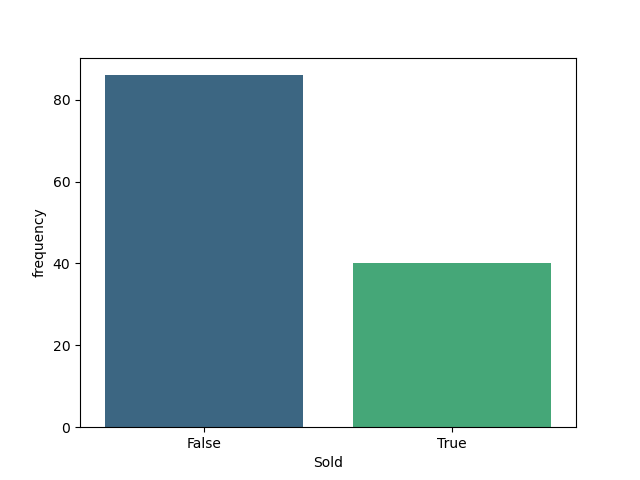
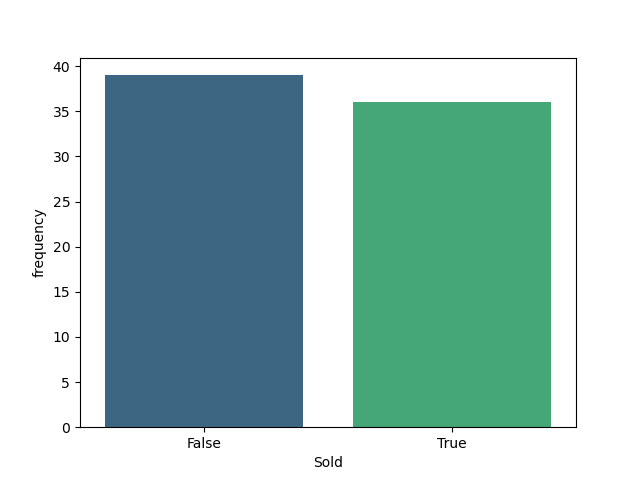
Fixed text parsing

diff --git a/KeyboardMarketAnalyser.py b/KeyboardMarketAnalyser.py
@@ -3,10 +3,7 @@
 # Made Public: 26th June 2020
 # 
 # To do (in order of priority):
-# 1) Improve text parsing in methods PriceCheck and ParsePostBody
-# 2) Improve price estimation with CurrencyConverter module:
-# https://pypi.org/project/CurrencyConverter/
-# 3) Improve options for fitting - extract information from asking price histogram
+# 1) Improve options for fitting - extract information from asking price histogram
 
 import praw, argparse, re, sys, datetime, os, logging, json
 from parse import *
@@ -14,6 +11,7 @@ import pandas as pd
 import matplotlib
 from matplotlib import pyplot as plt
 from matplotlib import dates as mpl_dates
+from currency_converter import CurrencyConverter
 import seaborn as sns
 logging.basicConfig(level=logging.INFO)
 
@@ -387,103 +385,90 @@ def ParseTitle(Submission):
 		HaveObjects = HaveObjects.replace("+","")
 	return Location, HaveObjects, WantObjects
 
+def CheckIfSold(Submission, PostBody):
+	if Submission.link_flair_text:
+		# If it has a post flair, it might already say its sold
+		if "Sold" in Submission.link_flair_text:
+			logging.debug("Submission was sold, assuming it was asking price")
+			return True
+	# Search for Sold in body
+	logging.debug("Flair has not been updated, checking in the body")
+	if search("**SOLD**",PostBody) is not None: return True
+	elif search("SOLD ",PostBody) is not None: return True
+	elif search("SOLD",PostBody) is not None:
+		if search("SOLDER",PostBody) is not None: return False
+		else: return True
+	else: return False
+
+def CurrencyConversion(Submission, Match, Currency):
+	c = CurrencyConverter(fallback_on_missing_rate=True)
+
+	Price = Match.group(1)
+	AskingPrice = re.sub(Currency, '', Price)
+	AskingPrice = float(AskingPrice)
+	if Currency == "\€": AskingPrice = c.convert(AskingPrice, 'EUR', 'USD',date=GetDate(Submission))
+	elif Currency == "\£": AskingPrice = c.convert(AskingPrice, 'GBP', 'USD',date=GetDate(Submission))
+	return AskingPrice
+
 def PriceCheck(Text, Currency, Keyboard = "None", SoldCheck = False):
 	if Keyboard == "None": SearchStr = '('+Currency+'(\d+)|(\d+)'+Currency+')'
-	elif Keyboard != "None" and SoldCheck == False: SearchStr = Keyboard+'.*'+Currency+'(\d{1,9})'
+	# elif Keyboard != "None" and SoldCheck == False: SearchStr = Keyboard+'.*'+Currency+'(\d{1,9})'
+	elif Keyboard != "None" and SoldCheck == False: SearchStr = Keyboard+'.*'+'('+Currency+'(\d+)|(\d+)'+Currency+')'
 	else: SearchStr = Keyboard+'.*'+Currency+'(\d{1,9}).*SOLD'
 	pattern = re.compile(r''+SearchStr)
 	match = pattern.search(Text)
 	return match
 
+def SearchForPrice(Submission, PostBody, Item = "None"):
+	Currencies = ["\$", "\€", "\£"]
+	for Currency in Currencies:
+		if PriceCheck(PostBody, Currency, Item) is not None: return PriceCheck(PostBody, Currency, Item), Currency
+	return None, None
+
 def ParsePostBody(Submission, HaveObjects, WantObjects, Location, Keyboard):
 	logging.debug("PARSING POST BODY LOG:\n")
 	PostBody = Submission.selftext.upper()
+	
 	ObjectDict = {}
 	if len(HaveObjects.split(",")) == 1:
+		logging.debug("Only has one item for sale so finding the price ...")
 		# Only one object so need to find the price
 		ListInfo = []
-		logging.debug("Searching for:\t\t" + HaveObjects)
-		match = PriceCheck(PostBody, "\$")
-		if match:
-			# Currently takes the first
-			AskingPrice = match.group(2)
-			logging.debug("Found asking price:\t" + str(AskingPrice))
-			ListInfo.append(AskingPrice)
+		logging.debug("Searching for: " + HaveObjects)
+		logging.debug("In text:\n"+PostBody)
+		Match,Currency = SearchForPrice(Submission, PostBody)
+		if Match is not None:
+			Price = CurrencyConversion(Submission, Match,Currency)
+			SellOutcome = CheckIfSold(Submission, PostBody)
+			logging.debug("Info found ... Price: "+str(Price)+" Currency: "+Currency+" Sell outcome: "+str(SellOutcome))
 		else:
-			if PriceCheck(PostBody,"\€"):
-				match = PriceCheck(PostBody,"\€")
-				AskingPrice = match.group(2)
-				logging.debug("Found asking price:\t" + str(AskingPrice))
-				ListInfo.append(AskingPrice)
-			if PriceCheck(PostBody,"\£"):
-				match = PriceCheck(PostBody,"\£")
-				AskingPrice = match.group(2)
-				logging.debug("Found asking price:\t" + str(AskingPrice))
-				ListInfo.append(AskingPrice)
-			else:
-				logging.warning("Couldnt find asking price so filling it with the number 1.")
-				ListInfo.append(1)
-		# Determine the Sold Price
-		if Submission.link_flair_text:
-			if "Sold" in Submission.link_flair_text:
-				logging.debug("Submission was sold, assuming it was asking price")
-				Sold = True
-				ListInfo.append(Sold)
-			else:
-				# Search for Sold in body
-				logging.debug("Flair has not been updated, checking in the body")
-				Sold = search("SOLD",PostBody)
-				if Sold is None:
-					logging.debug("Not been confirmed in body either, checking comments")
-					Sold = False
-					ListInfo.append(Sold)
-				else:
-					Sold = True
-					ListInfo.append(Sold)
-		else:
-			Sold = False
-			ListInfo.append(Sold)
+			Price = None
+			SellOutcome = False
+			logging.debug("Not found price so putting in nans ... ")
+		
+		ListInfo.append(Price)
+		ListInfo.append(SellOutcome)
 		ObjectDict.update({Keyboard:ListInfo})
 		return ObjectDict
 	else:
 		# For posts with multiple items for sale
+		logging.debug("Has multiple items for sale so looping over them ...")
 		for Object in HaveObjects.split(","):
 			Object = Object.strip()
 			ListInfo = []
 			logging.info("Searching for:\t\t" + Object)
-			if PriceCheck(PostBody, "\$", Object):
-				match = PriceCheck(PostBody, "\$", Object)
-				AskingPrice = match.group(1)
-				ListInfo.append(AskingPrice)
-				logging.info("Found asking price:\t" + str(AskingPrice))
-				# FullString = match.group(0)
-				# Now need to check if it sold for that
-				if PriceCheck(PostBody, "\$", Object, True):
-					Sold = True
-					ListInfo.append(Sold)
-				else:
-					logging.info("Couldn't confirm " + Object + " was sold.")
-					Sold = False
-					ListInfo.append(Sold)
-				ObjectDict.update({Object:ListInfo})
+			Match,Currency = SearchForPrice(Submission, PostBody, Object)
+			if Match is not None:
+				Price = CurrencyConversion(Submission, Match,Currency)
+				SellOutcome = CheckIfSold(Submission, PostBody)
+				logging.debug("Info found ... Price: "+str(Price)+" Currency: "+Currency+" Sell outcome: "+str(SellOutcome))
 			else:
-				if Keyboard in Object:
-					if PriceCheck(PostBody, "\$", Keyboard):
-						match = PriceCheck(PostBody, "\$", Keyboard)
-						AskingPrice = match.group(1)
-						ListInfo.append(AskingPrice)
-						logging.info("Found asking price:\t" + str(AskingPrice))
-						if PriceCheck(PostBody, "\$", Object, True):
-							Sold = True
-							ListInfo.append(Sold)
-						else:
-							logging.info("Couldn't confirm " + Object + " was sold.")
-							Sold = False
-							ListInfo.append(Sold)
-						ObjectDict.update({Keyboard:ListInfo})
-				else:
-					logging.info("Couldn't find asking price")
-					# Need to declare values here
+				Price = None
+				SellOutcome = False
+				logging.debug("Not found price so putting in nans ... ")
+			ListInfo.append(Price)
+			ListInfo.append(SellOutcome)
+			ObjectDict.update({Object:ListInfo})
 		return ObjectDict
 
 def get_args():
